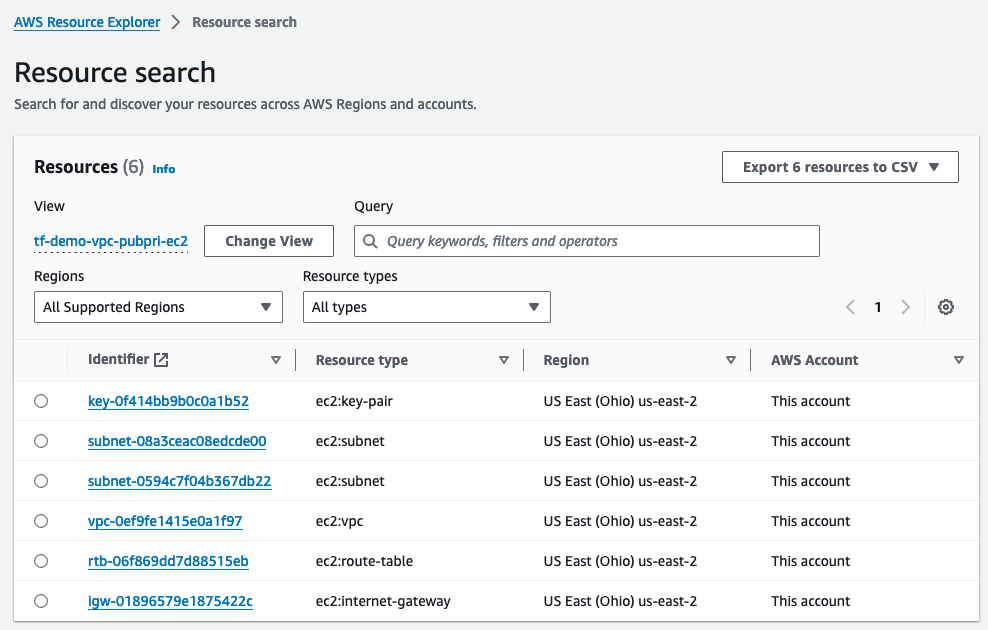
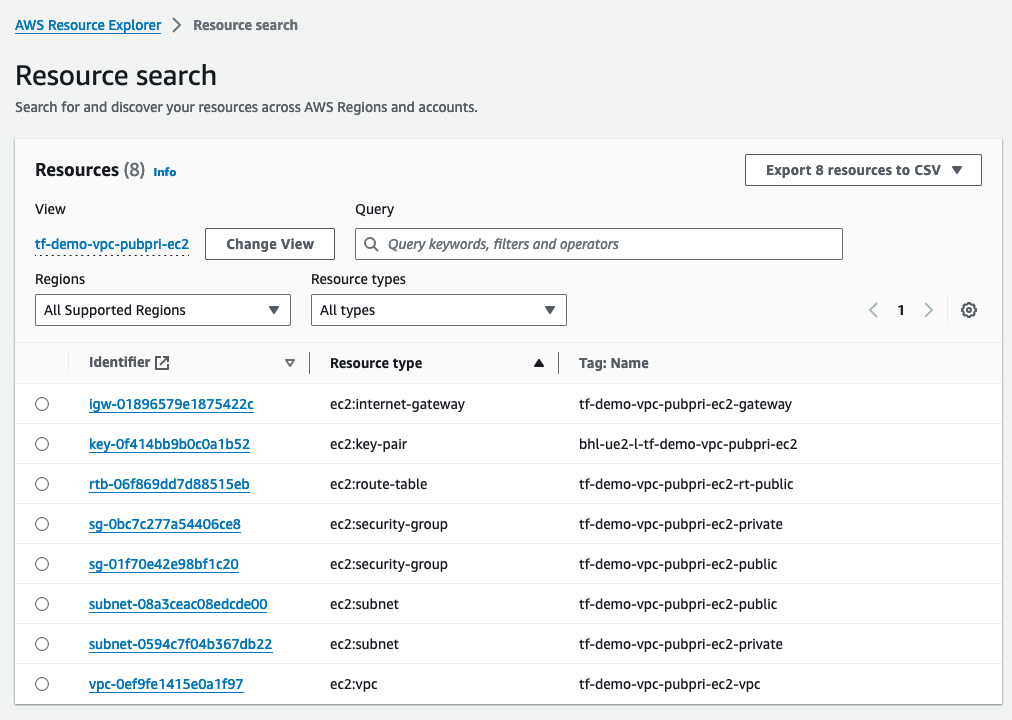
#4 - EC2 Security - Security Groups

diff --git a/README.md b/README.md
@@ -18,9 +18,8 @@ The following resources are created, INCLUDING the custom AWS Resource Explorer 
   - Route Table
 - Compute
   - Key Pairs
-#### TODO:
-- Compute
   - Security Groups
+#### TODO:
 - Compute Instances
   - t3.micro EC2 in public subnet
   - t3.micro EC2 in private subnet
